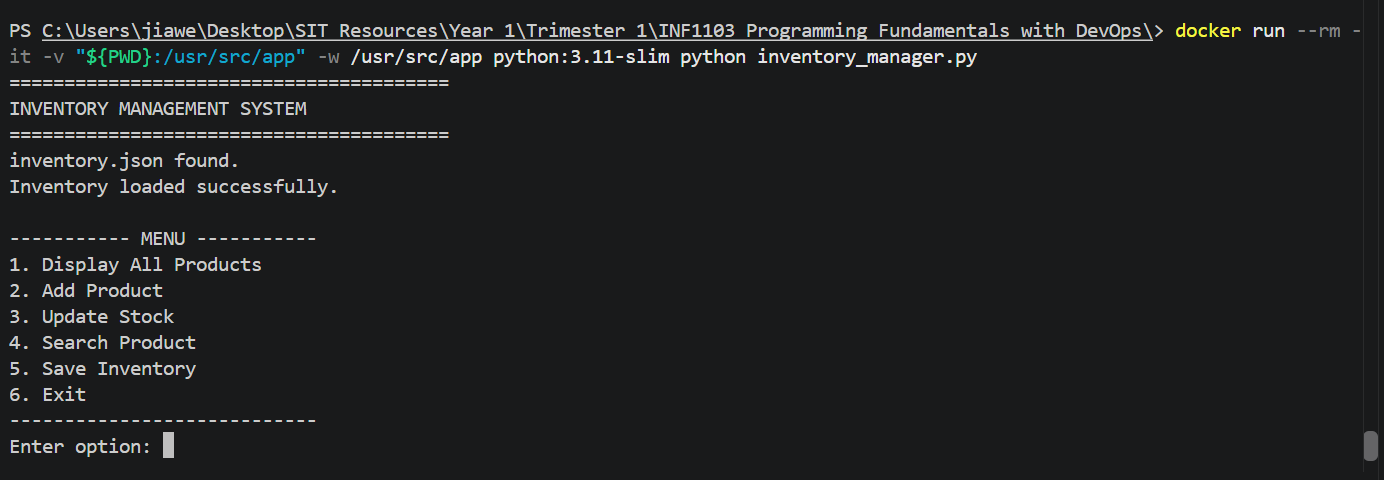
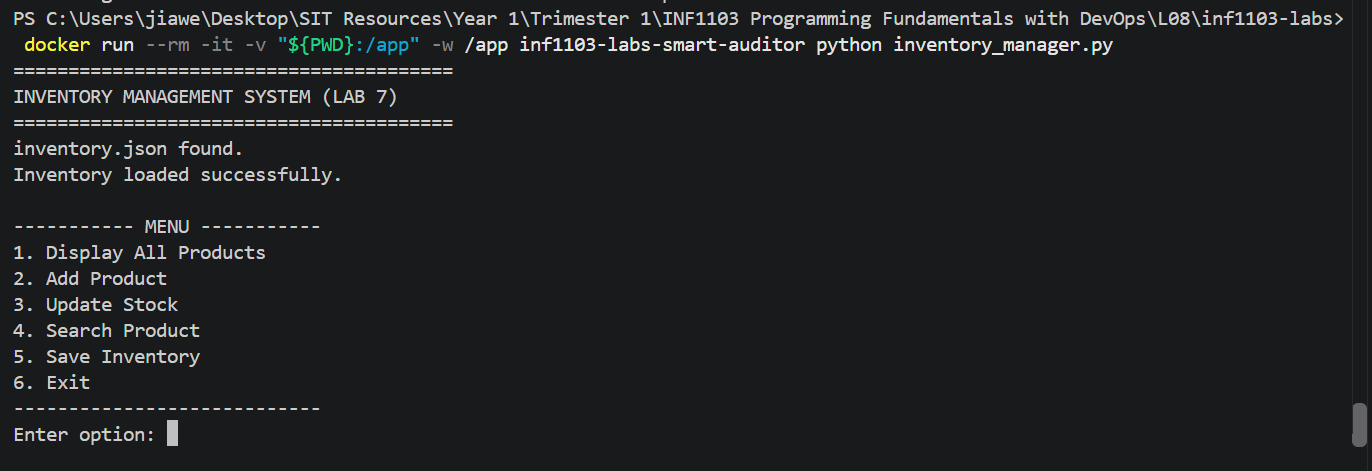
Eigth Commit

diff --git a/inventory_manager.py b/inventory_manager.py
@@ -1,17 +1,27 @@
 """
-INF1103: Lab 6 - Basics of Object-Oriented Programming
+INF1103: Lab 7 - Object-Oriented Relationships Part 1 (Inheritance, Overriding, Abstract, Interfaces)
 File: inventory_manager.py
-Description: Refactored inventory management system using Product and Inventory classes.
+Description: Refactored inventory management system with Inheritance, Abstract Classes, and Interfaces.
 """
 
+from abc import ABC, abstractmethod
 import json
 import os
 
 INVENTORY_FILE = "inventory.json"
 
 
-class Product:
-    """Represents and manages an individual product."""
+class CanBeShipped(ABC):
+    """Interface-style abstract base class for items that require shipping."""
+
+    @abstractmethod
+    def calculate_shipping_cost(self) -> float:
+        """Calculates and returns the shipping cost for the product."""
+        pass
+
+
+class Product(ABC):
+    """Abstract base class representing an individual product."""
 
     def __init__(self, product_id: str, name: str, price: float, stock: int):
         self.__product_id = product_id
@@ -38,27 +48,116 @@ class Product:
         self.__stock = new_stock
 
     def display_information(self) -> None:
-        """Displays formatted product details matching the original output."""
-        print(f"ID: {self.__product_id} | Name: {self.__name} | Price: ${self.__price:.2f} | Stock: {self.__stock}")
+        """Displays base product details."""
+        print(f"ID: {self.__product_id} | Name: {self.__name} | Price: ${self.__price:.2f} | Stock: {self.__stock}", end="")
+
+    @abstractmethod
+    def get_fulfilment_info(self) -> str:
+        """Abstract method to return product fulfilment details."""
+        pass
+
+    @abstractmethod
+    def to_dict(self) -> dict:
+        """Abstract method to convert product instance to dictionary for JSON persistence."""
+        pass
+
+    @classmethod
+    @abstractmethod
+    def from_dict(cls, data: dict):
+        """Abstract class method to create a Product instance from dictionary data."""
+        pass
+
+
+class PhysicalProduct(Product, CanBeShipped):
+    """Represents a physical product that requires shipping and has weight."""
+
+    def __init__(self, product_id: str, name: str, price: float, stock: int, weight: float):
+        super().__init__(product_id, name, price, stock)
+        self.__weight = float(weight)
+
+    def get_weight(self) -> float:
+        return self.__weight
+
+    def get_fulfilment_info(self) -> str:
+        return "Fulfilment: Requires physical shipping."
+
+    def calculate_shipping_cost(self) -> float:
+        """Calculates shipping cost based on weight ($5.00 base + $2.00 per kg)."""
+        return 5.00 + (2.00 * self.__weight)
+
+    def display_information(self) -> None:
+        """Overrides display_information to include weight, shipping cost, and fulfilment info."""
+        super().display_information()
+        print(f" | Type: Physical | Weight: {self.__weight}kg | Shipping: ${self.calculate_shipping_cost():.2f} | {self.get_fulfilment_info()}")
 
     def to_dict(self) -> dict:
-        """Converts product instance data to dictionary for JSON persistence."""
         return {
-            "id": self.__product_id,
-            "name": self.__name,
-            "price": self.__price,
-            "stock": self.__stock
+            "type": "physical",
+            "id": self.get_product_id(),
+            "name": self.get_name(),
+            "price": self.get_price(),
+            "stock": self.get_stock(),
+            "weight": self.__weight
         }
 
     @classmethod
     def from_dict(cls, data: dict):
-        """Creates a Product instance from dictionary data."""
         return cls(
             product_id=data["id"],
             name=data["name"],
             price=data["price"],
-            stock=data["stock"]
+            stock=data["stock"],
+            weight=data["weight"]
         )
+
+
+class DigitalProduct(Product):
+    """Represents a digital product delivered online with a download size."""
+
+    def __init__(self, product_id: str, name: str, price: float, stock: int, download_size: float):
+        super().__init__(product_id, name, price, stock)
+        self.__download_size = float(download_size)
+
+    def get_download_size(self) -> float:
+        return self.__download_size
+
+    def get_fulfilment_info(self) -> str:
+        return "Fulfilment: Delivered digitally via download link."
+
+    def display_information(self) -> None:
+        """Overrides display_information to include download size and fulfilment info."""
+        super().display_information()
+        print(f" | Type: Digital | Download Size: {self.__download_size}MB | {self.get_fulfilment_info()}")
+
+    def to_dict(self) -> dict:
+        return {
+            "type": "digital",
+            "id": self.get_product_id(),
+            "name": self.get_name(),
+            "price": self.get_price(),
+            "stock": self.get_stock(),
+            "download_size": self.__download_size
+        }
+
+    @classmethod
+    def from_dict(cls, data: dict):
+        return cls(
+            product_id=data["id"],
+            name=data["name"],
+            price=data["price"],
+            stock=data["stock"],
+            download_size=data["download_size"]
+        )
+
+
+def create_product_from_dict(data: dict) -> Product:
+    """Factory function to instantiate the correct product subclass based on the type identifier."""
+    prod_type = data.get("type")
+    if prod_type == "digital":
+        return DigitalProduct.from_dict(data)
+    else:
+        # Defaults to physical for backwards compatibility or missing type tags
+        return PhysicalProduct.from_dict(data)
 
 
 class Inventory:
@@ -84,13 +183,13 @@ class Inventory:
     def display_all(self) -> None:
         """Displays all products in the inventory."""
         print("\nCurrent Inventory")
-        print("-" * 48)
+        print("-" * 80)
         if not self.__products:
             print("Inventory is empty.")
         else:
             for product in self.__products:
                 product.display_information()
-        print("-" * 48)
+        print("-" * 80)
 
     def get_all_products(self) -> list:
         """Returns the list of Product instances."""
@@ -109,7 +208,7 @@ def load_inventory(filepath=INVENTORY_FILE) -> Inventory:
             with open(filepath, "r") as f:
                 data = json.load(f)
                 for item in data:
-                    product = Product.from_dict(item)
+                    product = create_product_from_dict(item)
                     inventory.add_product(product)
             print("inventory.json found.")
             print("Inventory loaded successfully.")
@@ -119,9 +218,9 @@ def load_inventory(filepath=INVENTORY_FILE) -> Inventory:
 
     print("inventory.json not found. Initializing with default inventory.")
     default_items = [
-        Product("P001", "Laptop", 1200.00, 15),
-        Product("P002", "Mouse", 25.50, 40),
-        Product("P003", "Keyboard", 45.00, 25)
+        PhysicalProduct("P001", "Laptop", 1200.00, 15, 2.5),
+        PhysicalProduct("P002", "Mouse", 25.50, 40, 0.2),
+        DigitalProduct("P003", "Antivirus Software", 49.99, 100, 150.0)
     ]
     for p in default_items:
         inventory.add_product(p)
@@ -129,7 +228,7 @@ def load_inventory(filepath=INVENTORY_FILE) -> Inventory:
 
 
 def save_inventory(inventory: Inventory, filepath=INVENTORY_FILE):
-    """Saves inventory data to inventory.json."""
+    """Saves inventory data to inventory.json preserving product types."""
     try:
         print("Saving inventory...")
         data = [product.to_dict() for product in inventory.get_all_products()]
@@ -146,7 +245,7 @@ def display_all(inventory: Inventory):
 
 
 def add_product(inventory: Inventory):
-    """Adds a new product object to the inventory."""
+    """Prompts user for product type and details, then adds to inventory."""
     print("\nAdd New Product")
     product_id = input("Product ID: ").strip()
 
@@ -162,7 +261,35 @@ def add_product(inventory: Inventory):
         print("Error: Invalid input format for price or stock.")
         return
 
-    new_product = Product(product_id, name, price, stock)
+    print("Select Product Type:")
+    print("1. Physical Product")
+    print("2. Digital Product")
+    choice = input("Enter choice (1-2): ").strip()
+
+    if choice == "1":
+        try:
+            weight = float(input("Weight (kg): "))
+            if weight < 0:
+                print("Error: Weight cannot be negative.")
+                return
+            new_product = PhysicalProduct(product_id, name, price, stock, weight)
+        except ValueError:
+            print("Error: Invalid input format for weight.")
+            return
+    elif choice == "2":
+        try:
+            download_size = float(input("Download Size (MB): "))
+            if download_size < 0:
+                print("Error: Download size cannot be negative.")
+                return
+            new_product = DigitalProduct(product_id, name, price, stock, download_size)
+        except ValueError:
+            print("Error: Invalid input format for download size.")
+            return
+    else:
+        print("Error: Invalid product type selection.")
+        return
+
     inventory.add_product(new_product)
     print("Product added successfully!")
 
@@ -188,26 +315,23 @@ def update_stock(inventory: Inventory):
 
 
 def search_product(inventory: Inventory):
-    """Searches for a product by ID and displays details using Product class methods."""
+    """Searches for a product by ID and displays polymorphically formatted details."""
     print("\nSearch Product")
     product_id = input("Enter Product ID: ").strip()
 
     product = inventory.search_product(product_id)
     if product:
         print("Product Found")
-        print("-" * 48)
-        print(f"ID: {product.get_product_id()}")
-        print(f"Name: {product.get_name()}")
-        print(f"Price: ${product.get_price():.2f}")
-        print(f"Stock: {product.get_stock()}")
-        print("-" * 48)
+        print("-" * 60)
+        product.display_information()
+        print("-" * 60)
     else:
         print("Product not found.")
 
 
 def main():
     print("========================================")
-    print("INVENTORY MANAGEMENT SYSTEM")
+    print("INVENTORY MANAGEMENT SYSTEM (LAB 7)")
     print("========================================")
 
     inventory = load_inventory()
